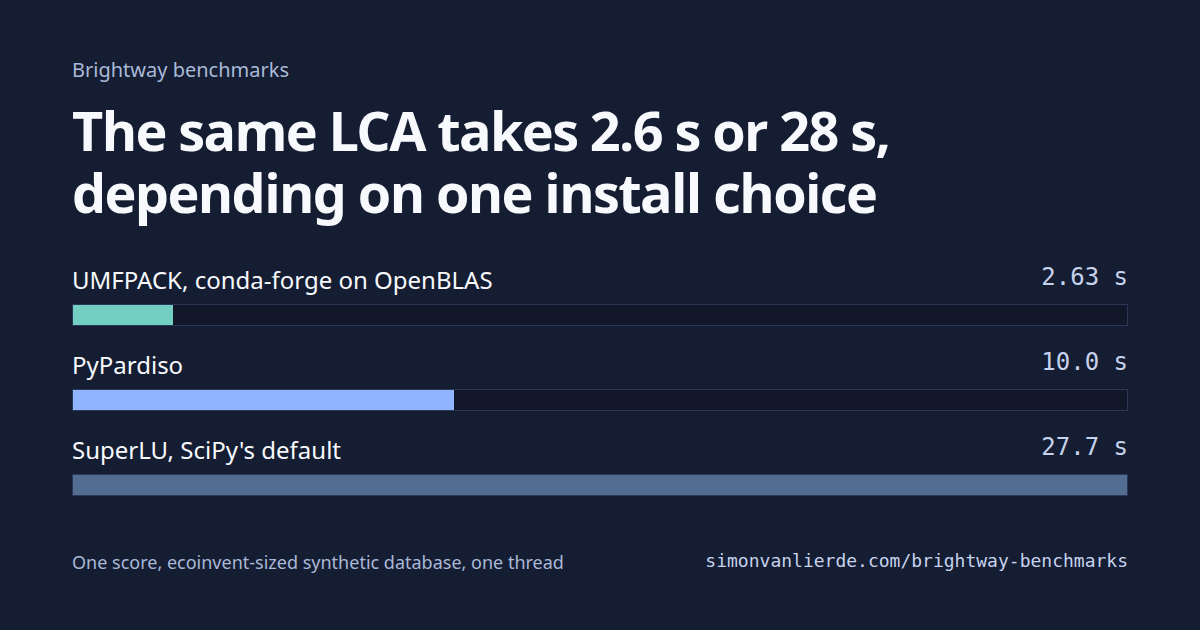
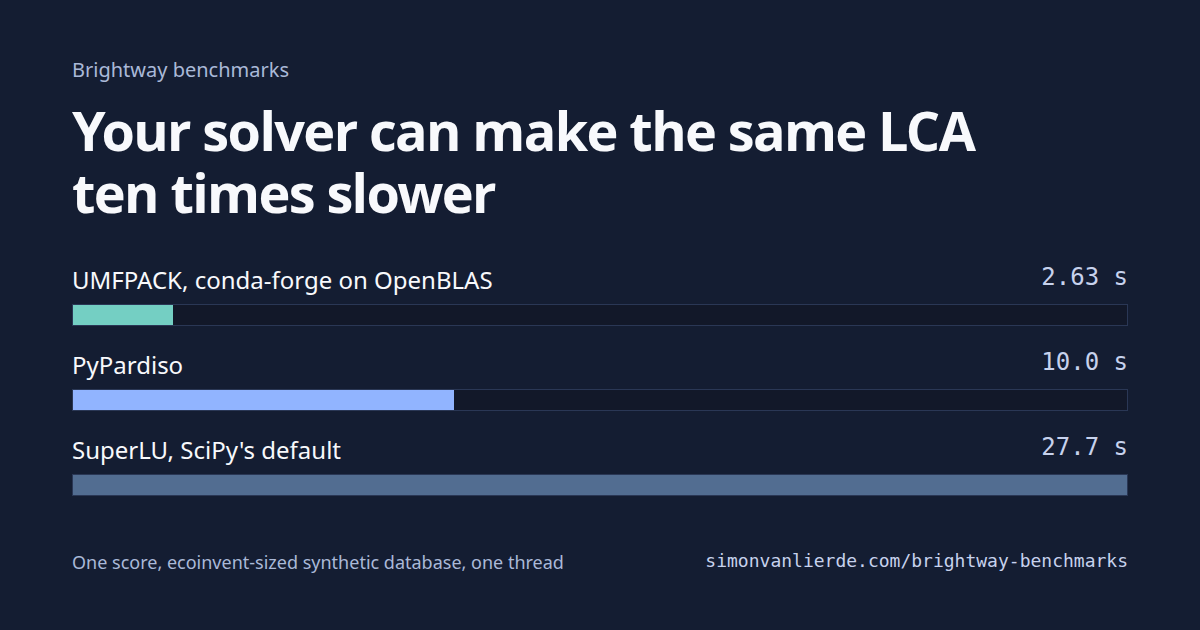
docs(ui): rewrite the solver story around what a practitioner installs

Changed region(s): [[0.0617, 0.2714, 0.74, 0.3619], [0.0617, 0.181, 0.8325, 0.2413]]

diff --git a/ui/src/components/SetupHome.svelte b/ui/src/components/SetupHome.svelte
@@ -160,7 +160,7 @@ $effect(() => {
         {#if platform && comparison.platform && comparison.platform !== platform.id}<p class="measurement-note">No {platform.label} machine was timed, so these values may not hold there.</p>{/if}
         <table><caption>Recorded measurements; follow a solver to inspect its benchmark.</caption><thead><tr><th scope="col">Solver</th><th scope="col" class="solver-bar-column">Relative time</th><th scope="col" class="num">Measured value</th></tr></thead><tbody>{#each comparison.rows as row (row.label)}<tr><th scope="row"><a href={row.href}>{row.label}</a></th><td class="solver-bar-column"><div class="solver-track" aria-hidden="true"><span style:width={`${largest > 0 ? (row.value / largest) * 100 : 0}%`}></span></div></td><td class="num">{format(row.value, row.unit)}</td></tr>{/each}</tbody></table>
         {#if comparison.note}<p class="measurement-note">{comparison.note}</p>{/if}
-        {#if story}<p class="story-link">Why one install choice moves a score from 2.6 s to 28 s, and when PyPardiso wins instead: <a href={story}>the solver story</a>.</p>{/if}
+        {#if story}<p class="story-link">Why the same score takes 2.6 s on one install and 28 s on another, and when PyPardiso wins instead: <a href={story}>the solver story</a>.</p>{/if}
       </section>
     {:else if guidance}
       <p class="measurement-note solver-pending">The solver comparison is being measured again. <a href={writeView({ page: "explorer", params: [] })} onclick={(e) => follow(e, { page: "explorer", params: [] })}>Compare solvers in the benchmarks</a>.</p>

diff --git a/ui/src/components/App.svelte b/ui/src/components/App.svelte
@@ -370,7 +370,7 @@ $effect(() => {
         <SetupHome {guidance} ready={guidanceReady} {index} {view} {go} {follow} {story} />
       {:else if !bench}
         {#if view.bench}<p class="empty" role="status">This benchmark is not in the current data. Choose one from the catalogue.</p>{/if}
-        <header class="overview-intro"><h2>Benchmarks</h2><p class="lede">How fast each Brightway release runs everyday LCA calculations. Choose a finding, a change or a benchmark from the catalogue for its history.</p><p class="lede"><a href={story}>The same LCA takes 2.6 s or 28 s depending on one install choice</a>: the story behind the solver numbers.</p></header>
+        <header class="overview-intro"><h2>Benchmarks</h2><p class="lede">How fast each Brightway release runs everyday LCA calculations. Choose a finding, a change or a benchmark from the catalogue for its history.</p><p class="lede"><a href={story}>Your solver can make the same LCA ten times slower</a>: the story behind the solver numbers.</p></header>
         <Findings {index} {follow} wide />
         <ReleaseChanges {index} {view} {go} {follow} loaded={overview} />
 

diff --git a/ui/e2e/site-info.spec.ts b/ui/e2e/site-info.spec.ts
@@ -31,7 +31,7 @@ test("the solver story is static, links the viewer at exact views and has its ow
   const context = await browser.newContext({ javaScriptEnabled: false });
   const page = await context.newPage();
   await page.goto("/stories/solver-choice/");
-  await expect(page.getByRole("heading", { level: 1 })).toContainText("2.6 s or 28 s");
+  await expect(page.getByRole("heading", { level: 1 })).toContainText("ten times slower");
   await expect(page.locator('link[rel="canonical"]')).toHaveAttribute("href", `${SITE}stories/solver-choice/`);
   await expect(page.locator('meta[property="og:image"]')).toHaveAttribute(
     "content",

diff --git a/docs/decisions/0004-stories-outside-the-masthead.md b/docs/decisions/0004-stories-outside-the-masthead.md
@@ -8,7 +8,7 @@
 
 0003 gave the site two pages, Setup and Benchmarks. Both are tools: they answer a question you
 bring. Some findings need a short account that a practitioner can read, share and check, such as
-why one install choice changes a calculation from 2.6 s to 28 s. That account does not fit a
+why the installed solver changes one score from 2.6 s to 28 s. That account does not fit a
 tool page, and a third masthead page would split the navigation 0003 simplified.
 
 ## Decision
